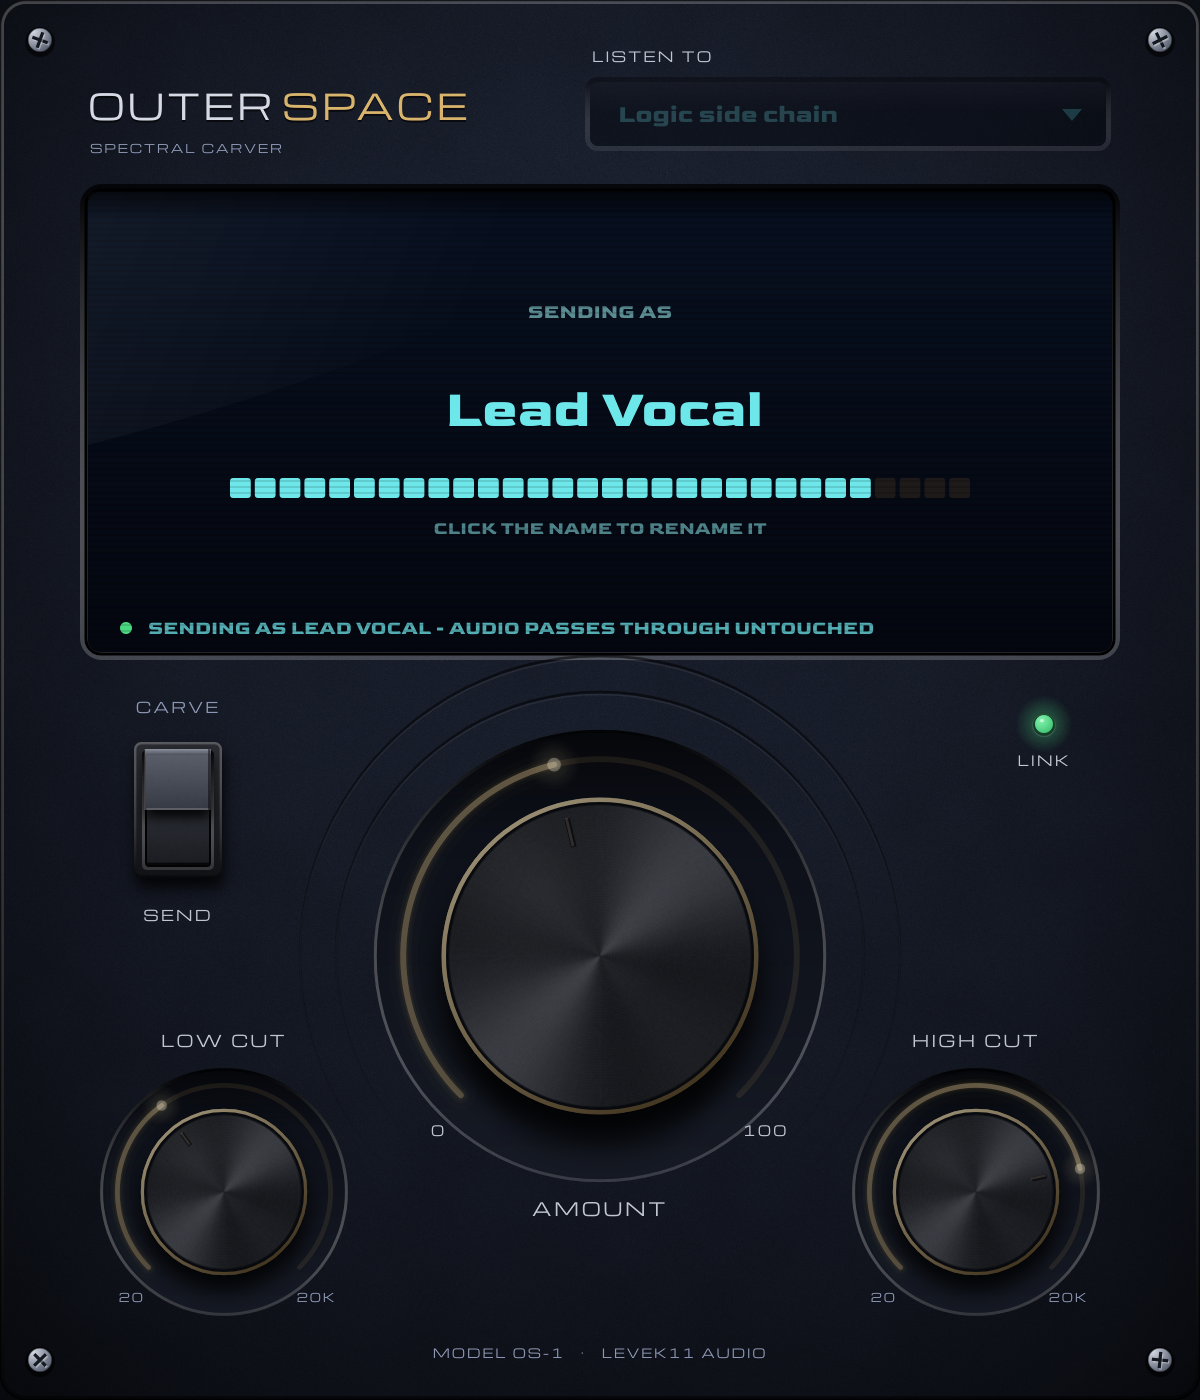
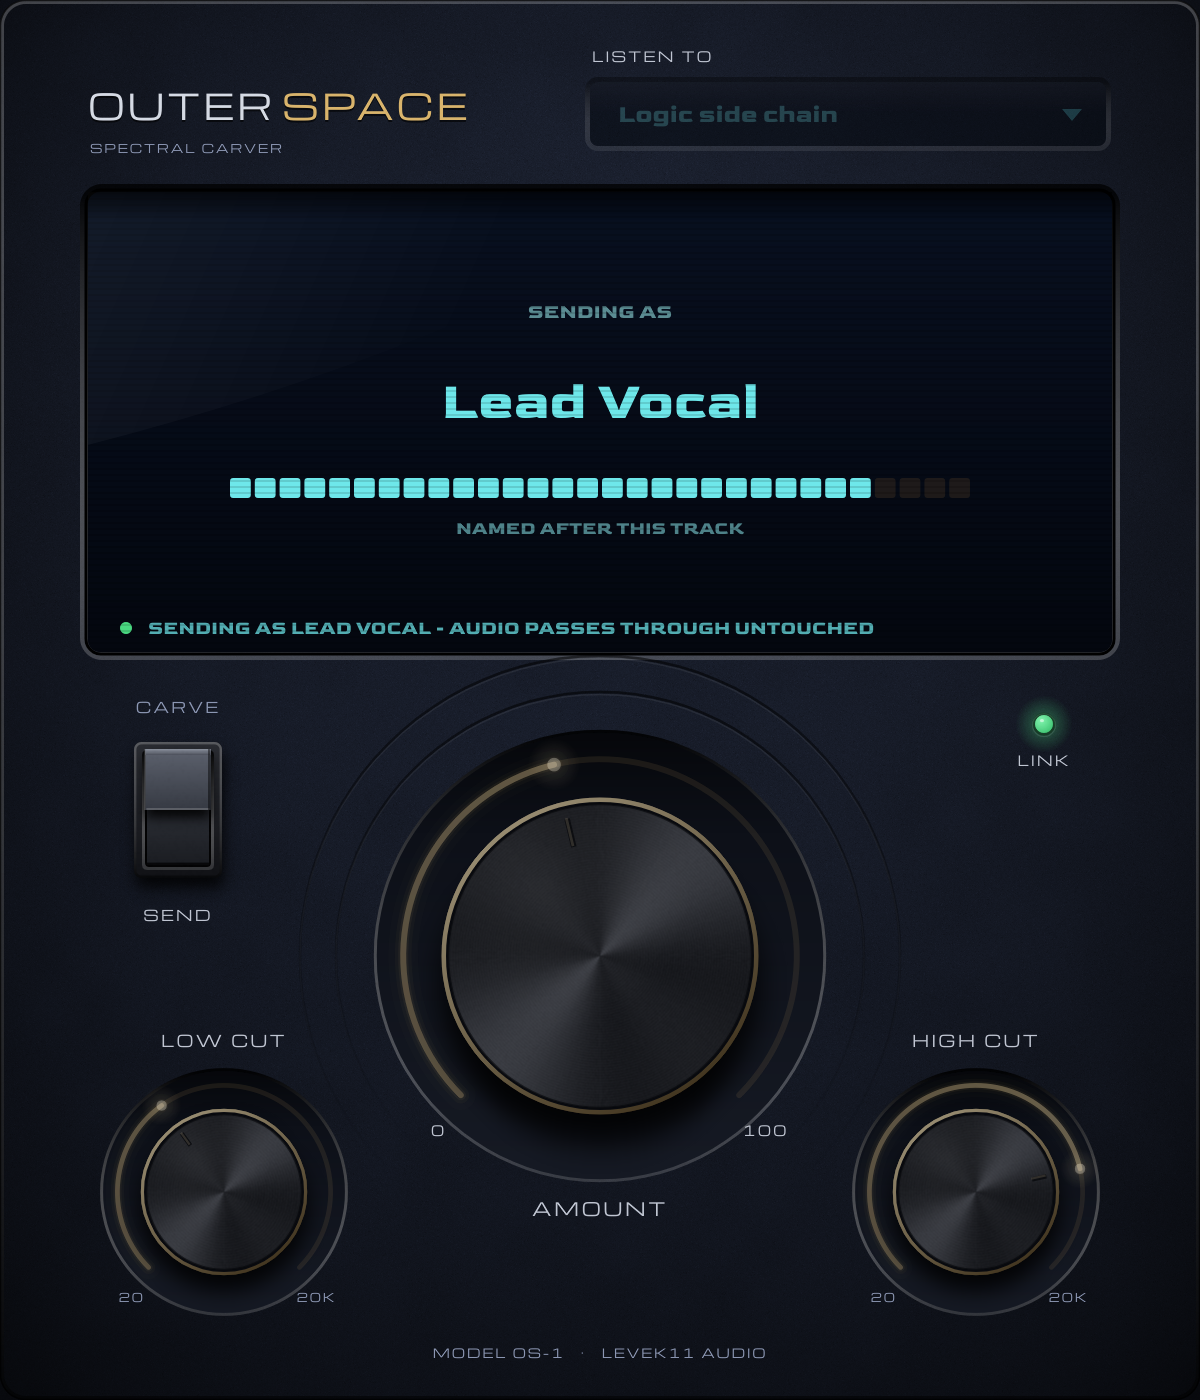
Sends take their track's name; click anywhere flips the rocker; no screws
A send is named after its Logic track (and follows track renames);
the rename field is gone. Any click on the Carve/Send rocker flips it.
Corner screws removed from the panel.

Claude-Session: https://claude.ai/code/session_01BQPN3E4jzJLHVkwqQfHzns

diff --git a/Source/PluginEditor.cpp b/Source/PluginEditor.cpp
@@ -61,17 +61,6 @@ OuterSpaceEditor::OuterSpaceEditor (OuterSpaceProcessor& p)
     lowKnob.onValueChange  = [this, hz] { if (lowKnob.isMouseButtonDown()) display.showReadout ("LOW CUT " + hz (lowKnob.getValue())); };
     highKnob.onValueChange = [this, hz] { if (highKnob.isMouseButtonDown()) display.showReadout ("HIGH CUT " + hz (highKnob.getValue())); };
 
-    // Send name, typed straight onto the screen
-    sendName.setFont (Fonts::lcd (32.0f));
-    sendName.setJustification (juce::Justification::centred);
-    sendName.setIndents (8, 8);
-    sendName.setTextToShowWhenEmpty ("LEAD VOCAL", colours::lcdDim);
-    sendName.setTooltip ("This track's name in the LISTEN TO lists.");
-    sendName.onReturnKey = [this] { proc.setSendName (sendName.getText()); sendName.giveAwayKeyboardFocus(); };
-    sendName.onFocusLost = [this] { proc.setSendName (sendName.getText()); };
-    sendName.onEscapeKey = [this] { sendName.setText (proc.getSendName(), false); sendName.giveAwayKeyboardFocus(); };
-    addChildComponent (sendName);
-
     setSize (width, height);
     faceplate = Hardware::makeFaceplate (width, height, 2.0f);
 
@@ -111,9 +100,6 @@ void OuterSpaceEditor::updateRoleView()
     sourceBox.setEnabled (! send);
     sourceBox.setAlpha (send ? 0.45f : 1.0f);
 
-    sendName.setVisible (send);
-    if (send && ! sendName.hasKeyboardFocus (true))
-        sendName.setText (proc.getSendName(), false);
 
     lastRoleSend = send;
     repaint();
@@ -182,9 +168,7 @@ void OuterSpaceEditor::timerCallback()
     if (send)
     {
         const float lvl = proc.getSendLevelDb();
-        display.setSendMode (true, lvl);
-        if (! sendName.hasKeyboardFocus (true) && sendName.getText() != proc.getSendName())
-            sendName.setText (proc.getSendName(), false);
+        display.setSendMode (true, lvl, proc.getSendName());
         const bool live = lvl > -60.0f;
         display.setStatus (live ? "Sending as " + proc.getSendName() + " - audio passes through untouched"
                                 : "Waiting for audio on this track", live ? colours::green : colours::silkDim);
@@ -192,7 +176,7 @@ void OuterSpaceEditor::timerCallback()
     }
     else
     {
-        display.setSendMode (false, -100.0f);
+        display.setSendMode (false, -100.0f, {});
         if (++tick % 15 == 0) rebuildSourceList (false);
 
         using S = OuterSpaceProcessor::ListenStatus;
@@ -230,12 +214,6 @@ void OuterSpaceEditor::paint (juce::Graphics& g)
 {
     using namespace colours;
     g.drawImage (faceplate, getLocalBounds().toFloat());
-
-    // Screws
-    Hardware::drawScrew (g, { 20.0f, 20.0f }, 6.0f, 0.35f);
-    Hardware::drawScrew (g, { (float) width - 20.0f, 20.0f }, 6.0f, 1.1f);
-    Hardware::drawScrew (g, { 20.0f, (float) height - 20.0f }, 6.0f, 0.8f);
-    Hardware::drawScrew (g, { (float) width - 20.0f, (float) height - 20.0f }, 6.0f, 0.1f);
 
     // Wordmark, printed on the plate (a hairline shadow under the ink)
     {
@@ -308,5 +286,4 @@ void OuterSpaceEditor::resized()
     amount.setBounds (juce::Rectangle<int> (amountSize, amountSize).withCentre (amountCentre));
     lowKnob.setBounds (juce::Rectangle<int> (smallSize, smallSize).withCentre (lowCentre));
     highKnob.setBounds (juce::Rectangle<int> (smallSize, smallSize).withCentre (highCentre));
-    sendName.setBounds (display.nameArea().translated (screenArea.getX(), screenArea.getY()));
 }

diff --git a/Source/PluginProcessor.cpp b/Source/PluginProcessor.cpp
@@ -181,20 +181,10 @@ OuterSpaceProcessor::ListenStatus OuterSpaceProcessor::getListenStatus() const
 
 juce::String OuterSpaceProcessor::getSendName() const { return sendName; }
 
-void OuterSpaceProcessor::setSendName (const juce::String& name)
-{
-    const auto trimmed = name.trim();
-    if (trimmed.isEmpty() || trimmed == sendName) return;
-    sendName = trimmed;
-    sendNameCustom = true;
-    Registry::get().rename (sendSlot, sendName);
-    updateHostDisplay (juce::AudioProcessorListener::ChangeDetails().withNonParameterStateChanged (true));
-}
-
 void OuterSpaceProcessor::updateTrackProperties (const TrackProperties& properties)
 {
-    // Logic and other hosts may tell us the track's name: use it as the send's
-    // name until the user types their own.
+    // Logic tells us the track's name (and tells us again when it's renamed):
+    // the send is always named after its track.
     juce::String name;
    #if JUCE_MAJOR_VERSION >= 8
     if (properties.name.has_value()) name = *properties.name;
@@ -204,13 +194,17 @@ void OuterSpaceProcessor::updateTrackProperties (const TrackProperties& properti
     name = name.trim();
     if (name.isEmpty()) return;
 
-    juce::MessageManager::callAsync ([safe = juce::WeakReference<OuterSpaceProcessor> (this), name]
+    auto apply = [safe = juce::WeakReference<OuterSpaceProcessor> (this), name]
     {
         auto* self = safe.get();
-        if (self == nullptr || self->sendNameCustom || name == self->sendName) return;
+        if (self == nullptr) return;
+        self->gotTrackName = true;
+        if (name == self->sendName) return;
         self->sendName = name;
         Registry::get().rename (self->sendSlot, self->sendName);
-    });
+    };
+    if (juce::MessageManager::existsAndIsCurrentThread()) apply();
+    else juce::MessageManager::callAsync (apply);
 }
 
 void OuterSpaceProcessor::syncSendSlot()
@@ -231,7 +225,6 @@ void OuterSpaceProcessor::getStateInformation (juce::MemoryBlock& destData)
     juce::ValueTree link ("Link");
     link.setProperty ("sendId", sendId, nullptr);
     link.setProperty ("sendName", sendName, nullptr);
-    link.setProperty ("sendNameCustom", sendNameCustom, nullptr);
     link.setProperty ("listenId", listenId, nullptr);
     link.setProperty ("listenName", listenName, nullptr);
     state.removeChild (state.getChildWithName ("Link"), nullptr);
@@ -255,8 +248,8 @@ void OuterSpaceProcessor::setStateInformation (const void* data, int sizeInBytes
     {
         auto& reg = Registry::get();
         juce::String id = link.getProperty ("sendId", sendId).toString();
-        sendName = link.getProperty ("sendName", sendName).toString();
-        sendNameCustom = (bool) link.getProperty ("sendNameCustom", false);
+        if (! gotTrackName)   // the saved name is only a stand-in until Logic reports the track's name
+            sendName = link.getProperty ("sendName", sendName).toString();
         if (id != sendId)
         {
             // Take back this send's saved id, so carve instances find it again.

diff --git a/Source/ui/SpectrumDisplay.h b/Source/ui/SpectrumDisplay.h
@@ -17,8 +17,8 @@ public:
     void setStatus (const juce::String& text, juce::Colour c) { status = text; statusColour = c; }
     /** Shows a value (e.g. "AMOUNT 35%") at the top of the screen for a moment. */
     void showReadout (const juce::String& text) { readout = text; readoutUntil = juce::Time::getMillisecondCounter() + 1400; }
-    /** Send mode: the screen shows the send's name (an editor on top) and its level. */
-    void setSendMode (bool send, float levelDb) { sendMode = send; sendLevel = levelDb; }
+    /** Send mode: the screen shows the send's name (the track's name) and its level. */
+    void setSendMode (bool send, float levelDb, const juce::String& name) { sendMode = send; sendLevel = levelDb; sendName = name; }
     juce::Rectangle<int> nameArea() const;
 
     void paint (juce::Graphics&) override;
@@ -43,7 +43,7 @@ private:
     int dragging = -1, hover = -1;
     bool active = true, sendMode = false;
     float sendLevel = -100.0f;
-    juce::String status, readout;
+    juce::String status, readout, sendName;
     juce::Colour statusColour;
     juce::uint32 readoutUntil = 0;
 };

diff --git a/Source/ui/SpectrumDisplay.cpp b/Source/ui/SpectrumDisplay.cpp
@@ -93,6 +93,9 @@ void SpectrumDisplay::paint (juce::Graphics& g)
         g.setFont (Fonts::lcd (12.0f));
         g.setColour (lcdDim.brighter (0.3f));
         g.drawText ("SENDING AS", nameArea().toFloat().translated (0, -26).withHeight (18), juce::Justification::centred);
+        g.setFont (Fonts::lcd (32.0f));
+        g.setColour (lcd);
+        g.drawFittedText (sendName, nameArea(), juce::Justification::centred, 1, 0.6f);
 
         // Segmented level meter
         const auto m = nameArea().toFloat().translated (0, 66).withHeight (10).reduced (30, 0);
@@ -108,7 +111,7 @@ void SpectrumDisplay::paint (juce::Graphics& g)
         }
         g.setFont (Fonts::lcd (11.0f));
         g.setColour (lcdDim.brighter (0.2f));
-        g.drawText ("CLICK THE NAME TO RENAME IT", m.translated (0, 18).withHeight (14), juce::Justification::centred);
+        g.drawText ("NAMED AFTER THIS TRACK", m.translated (0, 18).withHeight (14), juce::Justification::centred);
     }
     else
     {

diff --git a/Source/PluginProcessor.h b/Source/PluginProcessor.h
@@ -52,8 +52,9 @@ public:
     ListenStatus getListenStatus() const;
 
     // --- Send: this track's name in the lists (message thread) ---
+    /** The send's name: this track's name, as Logic reports it. */
     juce::String getSendName() const;
-    void setSendName (const juce::String& name);    // user rename
+    bool hasTrackName() const noexcept { return gotTrackName; }
     float getSendLevelDb() const noexcept { return sendLevelDb.load(); }
 
     outerspace::DisplayData& getDisplay() noexcept { return spacer.getDisplay(); }
@@ -74,7 +75,7 @@ private:
 
     // Send
     juce::String sendId, sendName;
-    bool sendNameCustom = false;
+    bool gotTrackName = false;
     int sendSlot = -1;
     std::atomic<int> sendSlotAudio { -1 };
     std::atomic<float> sendLevelDb { -100.0f };

diff --git a/Source/ui/RockerSwitch.h b/Source/ui/RockerSwitch.h
@@ -21,9 +21,10 @@ public:
 
     void mouseDown (const juce::MouseEvent& e) override
     {
-        // Press the half you want, like the real thing
-        const bool want = e.position.y > paddle().getCentreY();
-        if (want != isDown) { isDown = want; repaint(); if (onChange) onChange (isDown); }
+        juce::ignoreUnused (e);
+        isDown = ! isDown;   // a click anywhere on the switch flips it
+        repaint();
+        if (onChange) onChange (isDown);
     }
 
     void resized() override { texture = {}; }

diff --git a/Tests/Snapshot.cpp b/Tests/Snapshot.cpp
@@ -50,7 +50,11 @@ int main (int argc, char** argv)
     save ("carve.png");
 
     p.apvts.getParameter (params::role)->setValueNotifyingHost (1.0f);
-    p.setSendName ("Lead Vocal");
+    {
+        juce::AudioProcessor::TrackProperties tp;
+        tp.name = juce::String ("Lead Vocal");
+        p.updateTrackProperties (tp);
+    }
     for (int blk = 0; blk < 20; ++blk) p.processBlock (buf, midi);
     for (int i = 0; i < 3; ++i) dynamic_cast<juce::Timer*> (ed.get())->timerCallback();
     save ("send.png");

diff --git a/Source/PluginEditor.h b/Source/PluginEditor.h
@@ -32,7 +32,6 @@ private:
     outerspace::ui::SpectrumDisplay display;
     outerspace::ui::RockerSwitch roleSwitch { "CARVE", "SEND" };
     juce::Slider amount, lowKnob, highKnob;
-    juce::TextEditor sendName;
 
     using SliderAttachment = juce::AudioProcessorValueTreeState::SliderAttachment;
     std::unique_ptr<SliderAttachment> amountAtt, lowAtt, highAtt;

diff --git a/README.md b/README.md
@@ -41,7 +41,7 @@ tracks itself, so there are two ways to do it:
 
 1. **OuterSpace sends (recommended).** Put OuterSpace on the vocal and click
    **SEND** on the rocker switch. It passes the vocal through untouched and appears by name
-   (the track's name when Logic provides it; click the name on the screen to rename). On the
+   (named after its track, and it follows if you rename the track). On the
    piano, open OuterSpace and pick that name under **LISTEN TO**. Any number of
    tracks can listen to the same send. Sends line up by song position, so the
    carve stays in time even when Logic processes the tracks in a different
